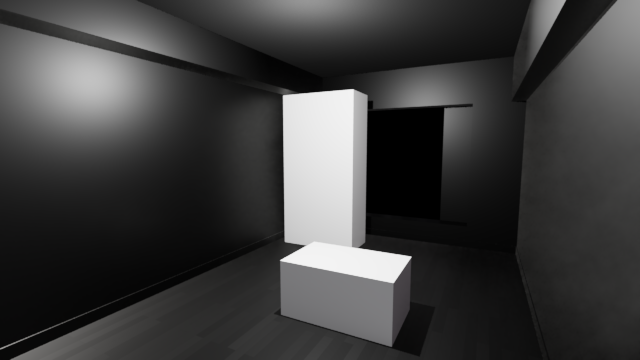
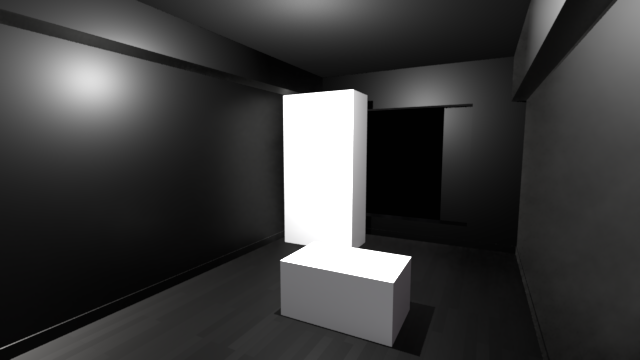
docs: 14_passes にノーマル2種・EXRのZの扱い・カラーマネージメント（標準）を追記
- テスト設定を 表示 sRGB / ビュー 標準 / ルック なし に統一し、レンダー画像を撮り直し
- 「レンダーとして保存」はビュー 標準なら差なし、Filmic/AgX で濁る、に修正
- EXR の Z は消せないが AE で使わなくてよい／Float(ハーフ)でも Z・Cryptomatte はフル
- ビューレイヤーのノーマルとプレイブラスト(MatCap)ノーマルの違いと PNG 化

Changed region(s): [[0.4375, 0.2444, 0.5625, 0.7028], [0.125, 0.1833, 0.1562, 0.2444]]

diff --git a/CLAUDE.md b/CLAUDE.md
@@ -14,7 +14,7 @@
 | `start.html` | シラバスマップ（全15回一覧）。各回カードから `01.html`〜`15.html` へリンク。 |
 | `01.html`〜`15.html` | 各講義ページ。 |
 | `14_bloom.html` | 第14回の補足「透過 × ブルーム」。14.html の EXTRA カードから入る。書式は light_music 手順書の CSS を流用。画像は `assets/lec14/`。数値は 2026-10-16 に Blender 5.2.1 で実測（作業スクリプトは `C:\_out\bloom_test\`）。 |
-| `14_passes.html` | 第14回の補足「AO ・ Z 深度 ・ ミストが真っ白／真っ黒／出ない」。14.html の 03 セクション内リンクと EXTRA カードから入る。書式は 14_bloom.html と同じ CSS。画像は `assets/lec14/passes_*.png`。数値は 2026-10-21 に Blender 5.2.0 で部屋モデル（`Integrations/Blender/room/Htype_20261021_clean.blend`）を使って実測（作業スクリプトは `Integrations/Blender/room/_passes_test/`）。 |
+| `14_passes.html` | 第14回の補足「AO ・ Z 深度 ・ ミストが真っ白／真っ黒／出ない」。14.html の 03 セクション内リンクと EXTRA カードから入る。書式は 14_bloom.html と同じ CSS。画像は `assets/lec14/passes_*.png`。カラーマネージメントは 表示 sRGB ／ ビュー 標準 ／ ルック なし が前提（2026-10-22 ユーザー指定）。数値は 2026-10-21〜22 に Blender 5.2.0 で部屋モデル（`Integrations/Blender/room/Htype_20261021_clean.blend`）を使って実測（作業スクリプトは `Integrations/Blender/room/_passes_test/`）。 |
 | `support.js` | DC ランタイム（React/`x-dc`）。**自動生成物。手で編集しない。** |
 | `text-edit.js` / `image-slot.js` | 講義ページ上のインライン編集・画像スロット用ツール。 |
 | `_ds/kinetic-stage-design-system-…/` | デザインシステム一式。`index.html` の描画に必須（欠けると動画が出ない）。 |
